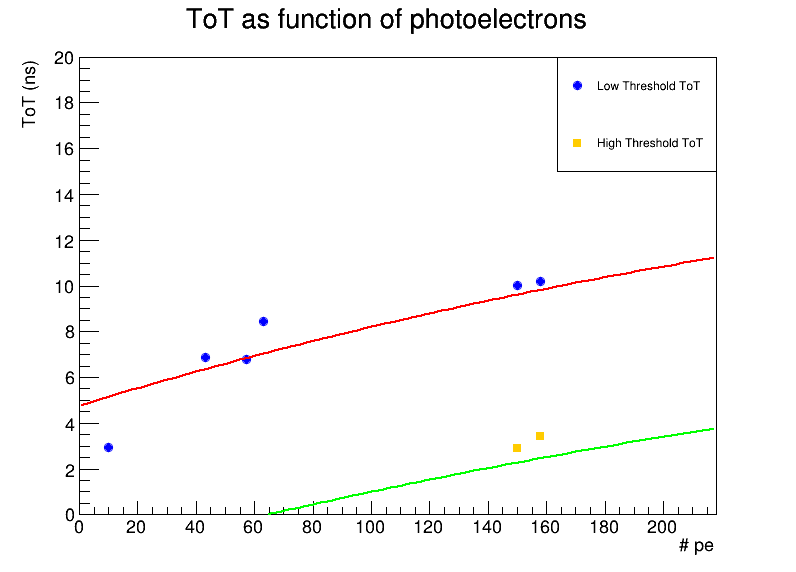
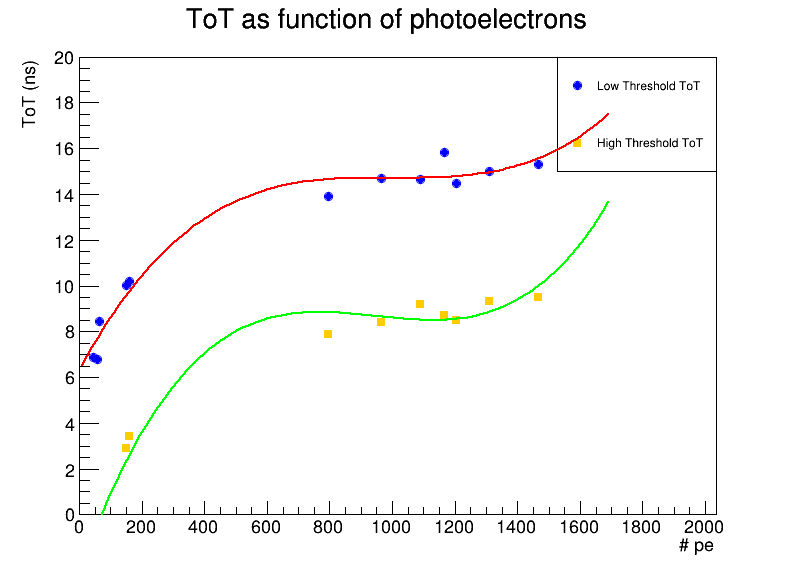
new commit

diff --git a/time_distribution_graph.C b/time_distribution_graph.C
@@ -223,9 +223,9 @@ int main() {
         "T_smear_41806_4000.txt", "T_smear_44519_2000.txt",
         "T_smear_5275_2800.txt", "T_smear_57_63.txt",
         "T_smear_67_150.txt", "T_smear_86_22.txt",
-        "T_smear_4000.txt","T_smear_2922.txt","T_smear_119.txt","T_smear_325.txt","T_smear_723.txt","T_smear_1122.txt","T_smear_29824.txt","T_smear_12392.txt"
+        "T_smear_4000.txt","T_smear_2922.txt","T_smear_325.txt","T_smear_723.txt","T_smear_853.txt","T_smear_1122.txt","T_smear_29824.txt","T_smear_12392.txt"
     };
-
+    //"T_smear_119.txt"
     std::vector<double> N;
     std::vector<double> tot_l;
     std::vector<double> tot_h;
@@ -246,7 +246,7 @@ int main() {
     gr_low->SetMarkerStyle(20); // Imposta lo stile dei punti
     gr_low->SetMarkerColor(kBlue);
     gr_low->GetYaxis()->SetRangeUser(0,20);
-    gr_low->GetXaxis()->SetRangeUser(0, 200);
+    gr_low->GetXaxis()->SetRangeUser(0, 2000);
     gr_low->Draw("AP");
 
     // Disegna il secondo grafico sullo stesso canvas
